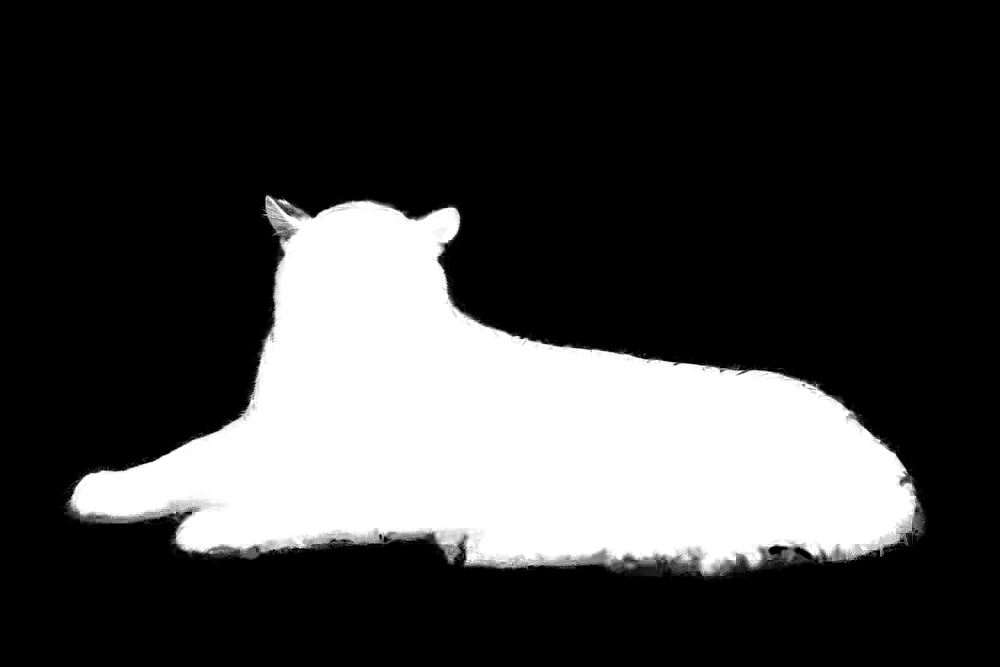
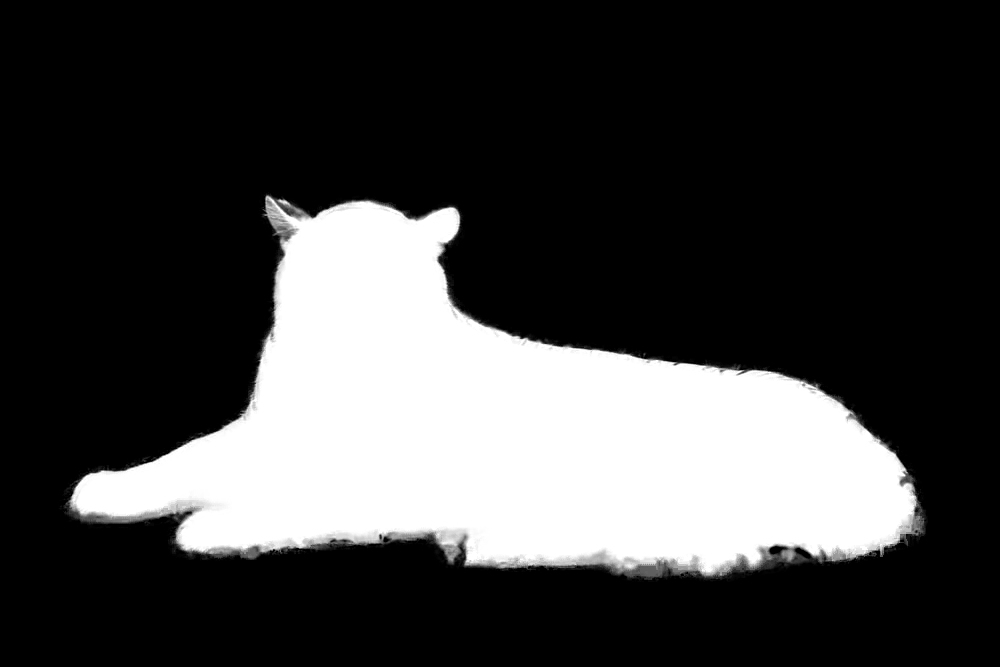
Implement rembg

diff --git a/background_removal/rembg/rembg.py b/background_removal/rembg/rembg.py
@@ -1,11 +1,9 @@
 import sys
-import time
 
 import numpy as np
 import cv2
-from PIL import Image
 from pymatting.alpha.estimate_alpha_cf import estimate_alpha_cf
-from scipy.ndimage.morphology import binary_erosion
+from scipy.ndimage import binary_erosion
 
 import ailia
 
@@ -15,6 +13,7 @@ from utils import get_base_parser, update_parser, get_savepath  # noqa
 from model_utils import check_and_download_models  # noqa
 from detector_utils import load_image  # noqa
 from image_utils import normalize_image  # noqa
+from webcamera_utils import get_capture, get_writer  # noqa
 # logger
 from logging import getLogger  # noqa: E402
 
@@ -30,6 +29,8 @@ MASK_REMOTE_PATH = 'https://storage.googleapis.com/ailia-models/u2net/'
 
 IMAGE_PATH = 'animal-1.jpg'
 SAVE_IMAGE_PATH = 'output.png'
+
+IMAGE_SIZE = 320
 
 # ======================
 # Arguemnt Parser Config
@@ -59,11 +60,17 @@ def norm_pred(d: np.ndarray) -> np.ndarray:
 # ======================
 
 def preprocess(img):
-    # img = img[:, :, ::-1]  # BGR -> RGB
+    use_skimage = False
 
-    from skimage import transform
-    img = transform.resize(img, (320, 320), mode="constant")
-    img = img / np.max(img)
+    img = img[:, :, ::-1]  # BGR -> RGB
+
+    if not use_skimage:
+        img = cv2.resize(img, (IMAGE_SIZE, IMAGE_SIZE))
+        img = img / 255
+    else:
+        from skimage import transform
+        img = transform.resize(img, (IMAGE_SIZE, IMAGE_SIZE), mode="constant")
+        img = img / np.max(img)
 
     # normalize
     img[:, :, 0] = (img[:, :, 0] - 0.485) / 0.229
@@ -126,11 +133,9 @@ def predict(net, img):
     pred = d1[0, 0, :, :]
     pred = norm_pred(pred)
 
-    # pred = cv2.resize(pred * 255, (w, h))
-    # pred = pred.reshape((h, w, 1))
-    mask = Image.fromarray(pred * 255).convert("L")
-    mask = mask.resize((im_w, im_h), Image.LANCZOS)
-    mask = np.array(mask)
+    mask = cv2.resize(
+        pred * 255, (im_w, im_h),
+        interpolation=cv2.INTER_LANCZOS4)
 
     return mask
 
@@ -142,23 +147,70 @@ def recognize_from_image(net):
         logger.info(image_path)
 
         # prepare input data
-        # img = load_image(image_path)
-        # img = cv2.cvtColor(img, cv2.COLOR_BGRA2BGR)
-        img = Image.open(image_path).convert("RGB")
-        img = np.array(img)
+        img = load_image(image_path)
+        img = cv2.cvtColor(img, cv2.COLOR_BGRA2BGR)
 
         # inference
         mask = predict(net, img)
+
+        # refine alpha
+        # res_img = mask
         res_img = estimate_alpha(img, mask)
 
         if args.composite:
-            img = cv2.cvtColor(img, cv2.COLOR_RGB2BGRA)
+            img = cv2.cvtColor(img, cv2.COLOR_BGR2BGRA)
             img[:, :, 3] = res_img
             res_img = img
 
         savepath = get_savepath(args.savepath, image_path, ext='.png')
         logger.info(f'saved at : {savepath}')
         cv2.imwrite(savepath, res_img)
+
+    logger.info('Script finished successfully.')
+
+
+def recognize_from_video(net):
+    video_file = args.video if args.video else args.input[0]
+    capture = get_capture(video_file)
+    assert capture.isOpened(), 'Cannot capture source'
+
+    # create video writer if savepath is specified as video format
+    f_h = int(capture.get(cv2.CAP_PROP_FRAME_HEIGHT))
+    f_w = int(capture.get(cv2.CAP_PROP_FRAME_WIDTH))
+    if args.savepath != SAVE_IMAGE_PATH:
+        logger.warning(
+            'currently, video results cannot be output correctly...'
+        )
+        writer = get_writer(args.savepath, f_h, f_w)
+    else:
+        writer = None
+
+    while True:
+        ret, frame = capture.read()
+        if (cv2.waitKey(1) & 0xFF == ord('q')) or not ret:
+            break
+        frame = cv2.imread("animal-1.jpg")
+
+        # inference
+        mask = predict(net, frame)
+        alpha = estimate_alpha(frame, mask)
+
+        alpha = alpha[:, :, None].astype(np.float32) / 255
+        back = np.ones_like(frame) * 255
+        res_img = frame * alpha + (back * (1 - alpha))
+        res_img = res_img.astype(np.uint8)
+
+        # show
+        cv2.imshow('frame', res_img)
+
+        # save results
+        if writer is not None:
+            writer.write(res_img)
+
+    capture.release()
+    cv2.destroyAllWindows()
+    if writer is not None:
+        writer.release()
 
     logger.info('Script finished successfully.')
 
@@ -172,7 +224,10 @@ def main():
     # net initialize
     net = ailia.Net(MASK_MODEL_PATH, MASK_WEIGHT_PATH, env_id=env_id)
 
-    recognize_from_image(net)
+    if args.video is not None:
+        recognize_from_video(net)
+    else:
+        recognize_from_image(net)
 
 
 if __name__ == '__main__':
